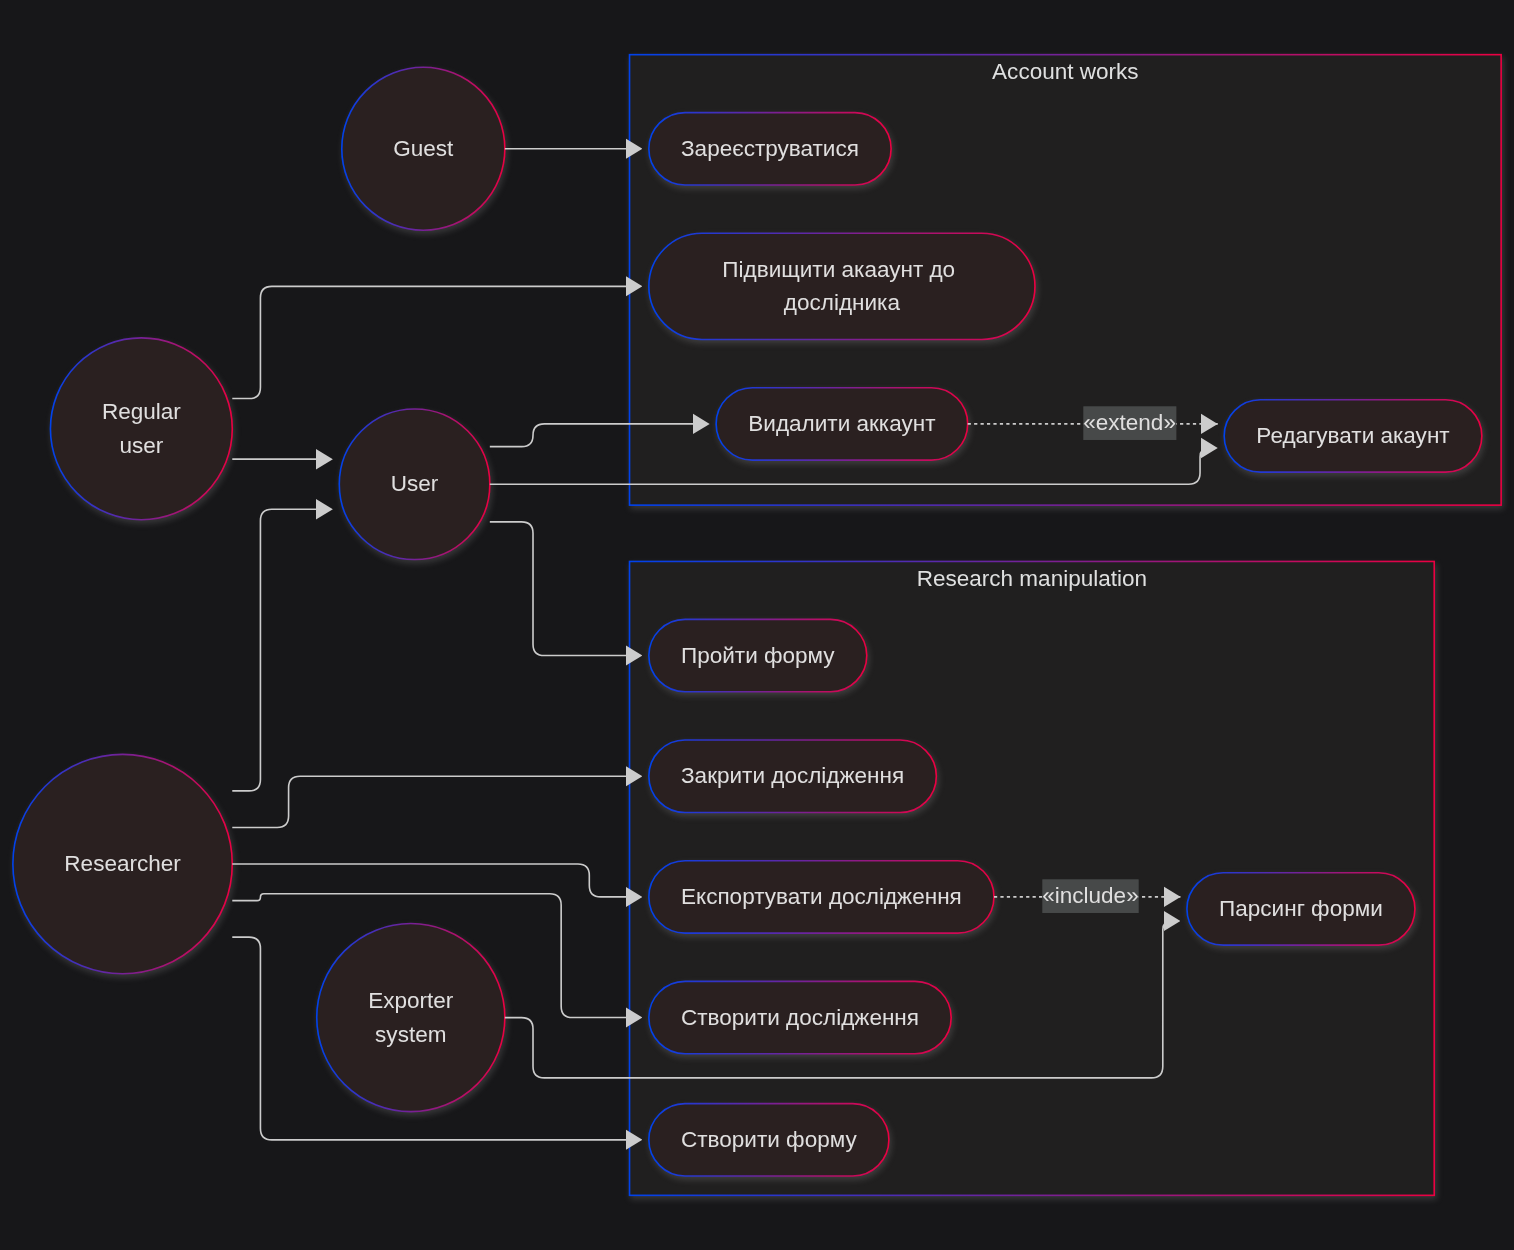
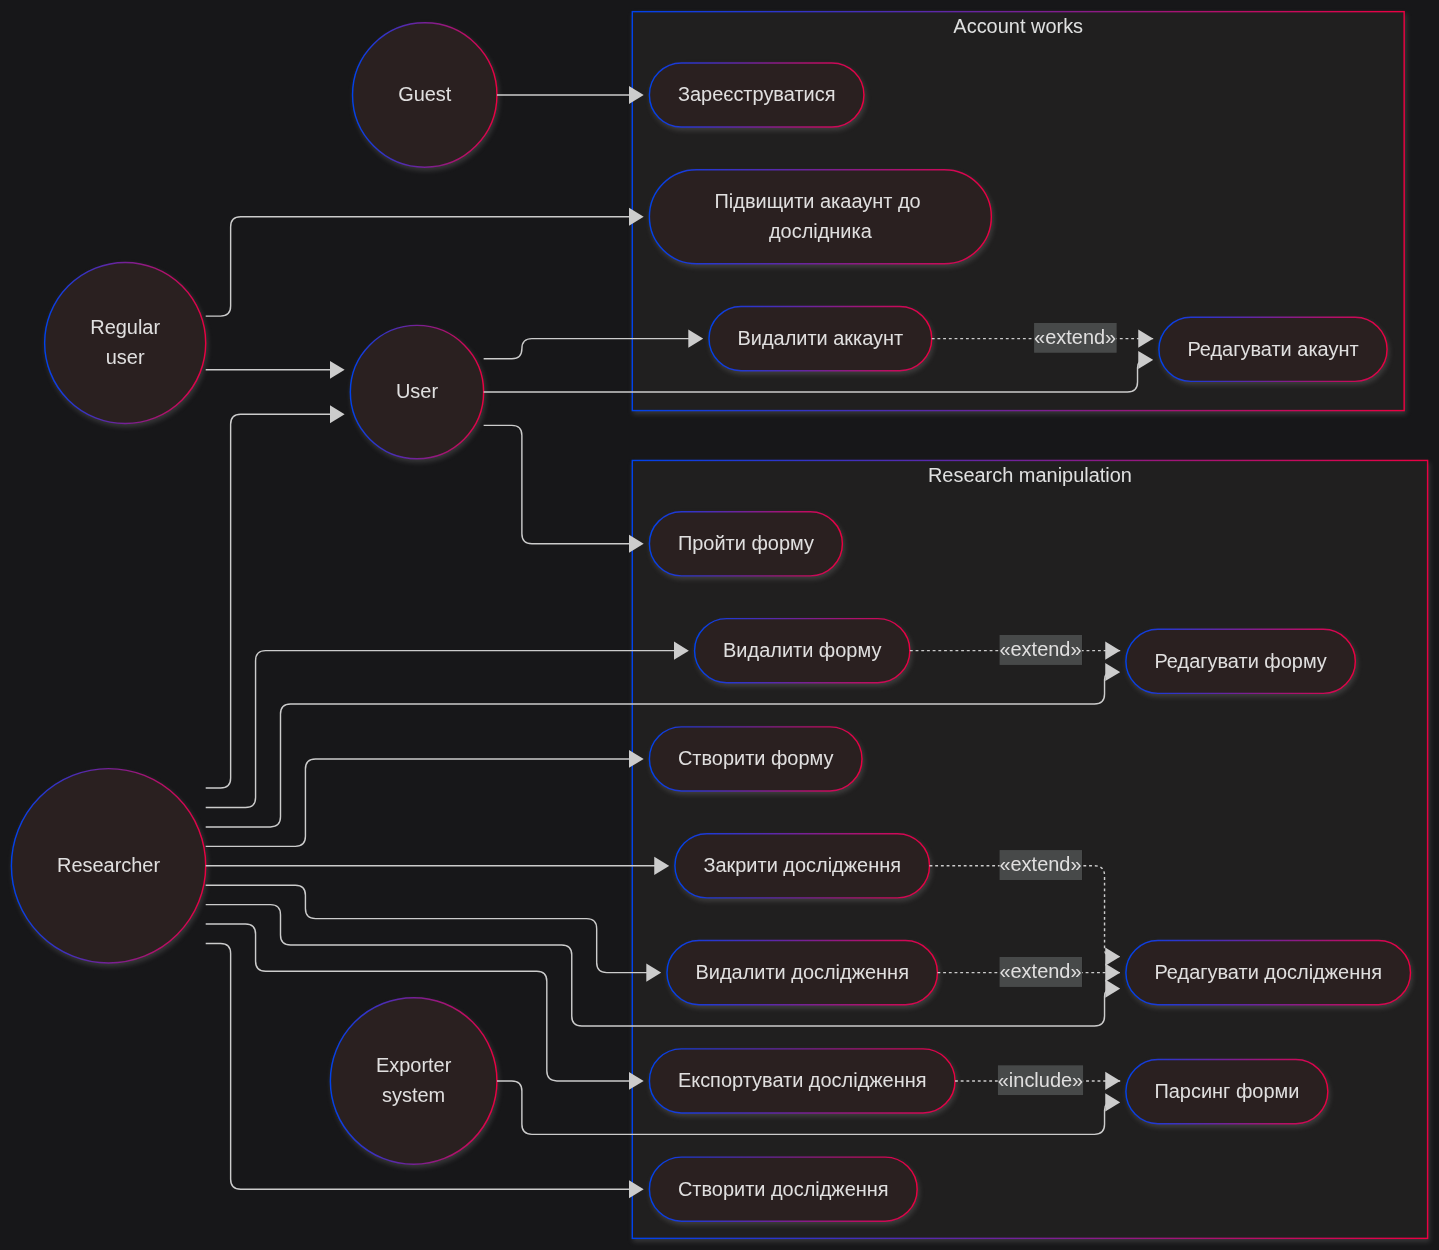
Added ability to edit researches and forms

diff --git a/Lab2/artifacts/user_stories.md b/Lab2/artifacts/user_stories.md
@@ -86,3 +86,16 @@ Scenario: Export data
     When : I try to export data
     Then : The system gives me file with all of the answers data
 ```
+
+#### Story-004 - Complete research
+
+**As a** Researcher, **I want to** fix a typo in name of my research, **so that** nobody would lught at my for it
+
+```gherkin
+Scenario: Edit research
+    Given : I am registered user
+    And : Have researcher account
+    And : Have a research
+    When : I edit my researches name
+    Then : The research name changes to a new one
+```

diff --git a/Lab2/artifacts/EARS-requirements.md b/Lab2/artifacts/EARS-requirements.md
@@ -40,6 +40,14 @@
 
 - System SHALL save form answers
 
+#### REQ-015 - Research editting
+
+- Researcher CAN edit their research information, which includes deletion and closing new answers acception
+
+#### REQ-016 - Form editting
+
+- Researcher CAN edit their researches forms, which includes deletion
+
 ---
 
 ## Non-functional
